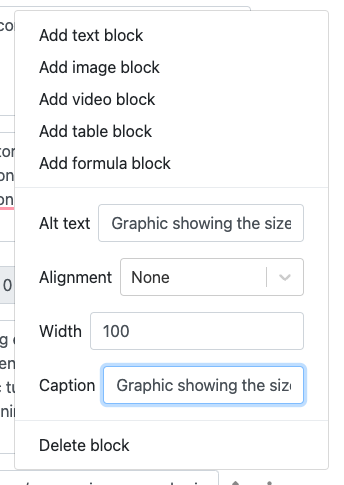
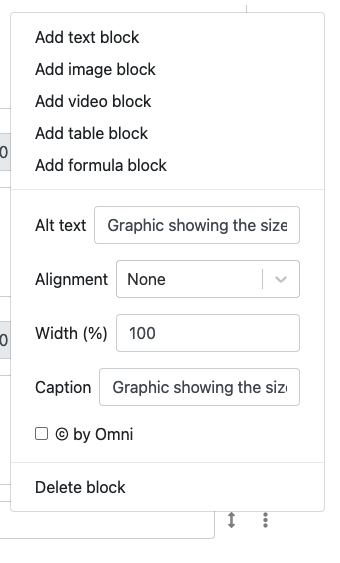
Add copyright checkbox, plus...
Add image to tip about the section word counter.
Change KaTeX link.

diff --git a/docs/generalTips/textStructure/editCalculatorText/textEditor/formulaBlock.rst b/docs/generalTips/textStructure/editCalculatorText/textEditor/formulaBlock.rst
@@ -56,7 +56,7 @@ Here is another example:
 
 Hopefully you can see that a lot is possible by using LaTeX-style formula blocks. However, a full course on learning LaTeX is beyond the scope of this manual.
 
-Instead, review the `full list of supported symbols and functions <https://katex.org/docs/support_table.html>`_ on the KaTeX website to learn more. 
+Instead, review the `full list of supported symbols and functions <https://katex.org/docs/supported.html>`_ on the KaTeX website to learn more. 
 
 .. note::
   There are no options associated with formula blocks.

diff --git a/docs/generalTips/textStructure/editCalculatorText/textEditor/imageBlock.rst b/docs/generalTips/textStructure/editCalculatorText/textEditor/imageBlock.rst
@@ -77,6 +77,11 @@ Caption
 
 Allows a caption to be written below the image to help describe it to the user. This is also a good place to specify the source of the image, if necessary. You can link to the source using :ref:`Markdown link syntax <linksMarkdown>`.
 
+Omni copyright checkbox
+-----------------------
+
+If you or a colleague has created the image, tick the "© by Omni" checkbox. Otherwise, if the image has been obtained from an external source, leave it unchecked.
+
 .. _textEditorPicturesUpload:
 
 How to upload pictures?

diff --git a/docs/generalTips/textStructure/editCalculatorText/textEditor/intro.rst b/docs/generalTips/textStructure/editCalculatorText/textEditor/intro.rst
@@ -33,6 +33,11 @@ To **add a new section**, click on the three-dots icon to the right of the secti
   Adding and deleting a section block.
 
 .. tip::
+
+  .. figure:: img/intro-section-word-count.png
+    :alt: Section word count indicator
+    :align: center  
+
   The number after the title of a section indicates the **number of words** contained within that section.
 
 .. seealso::
